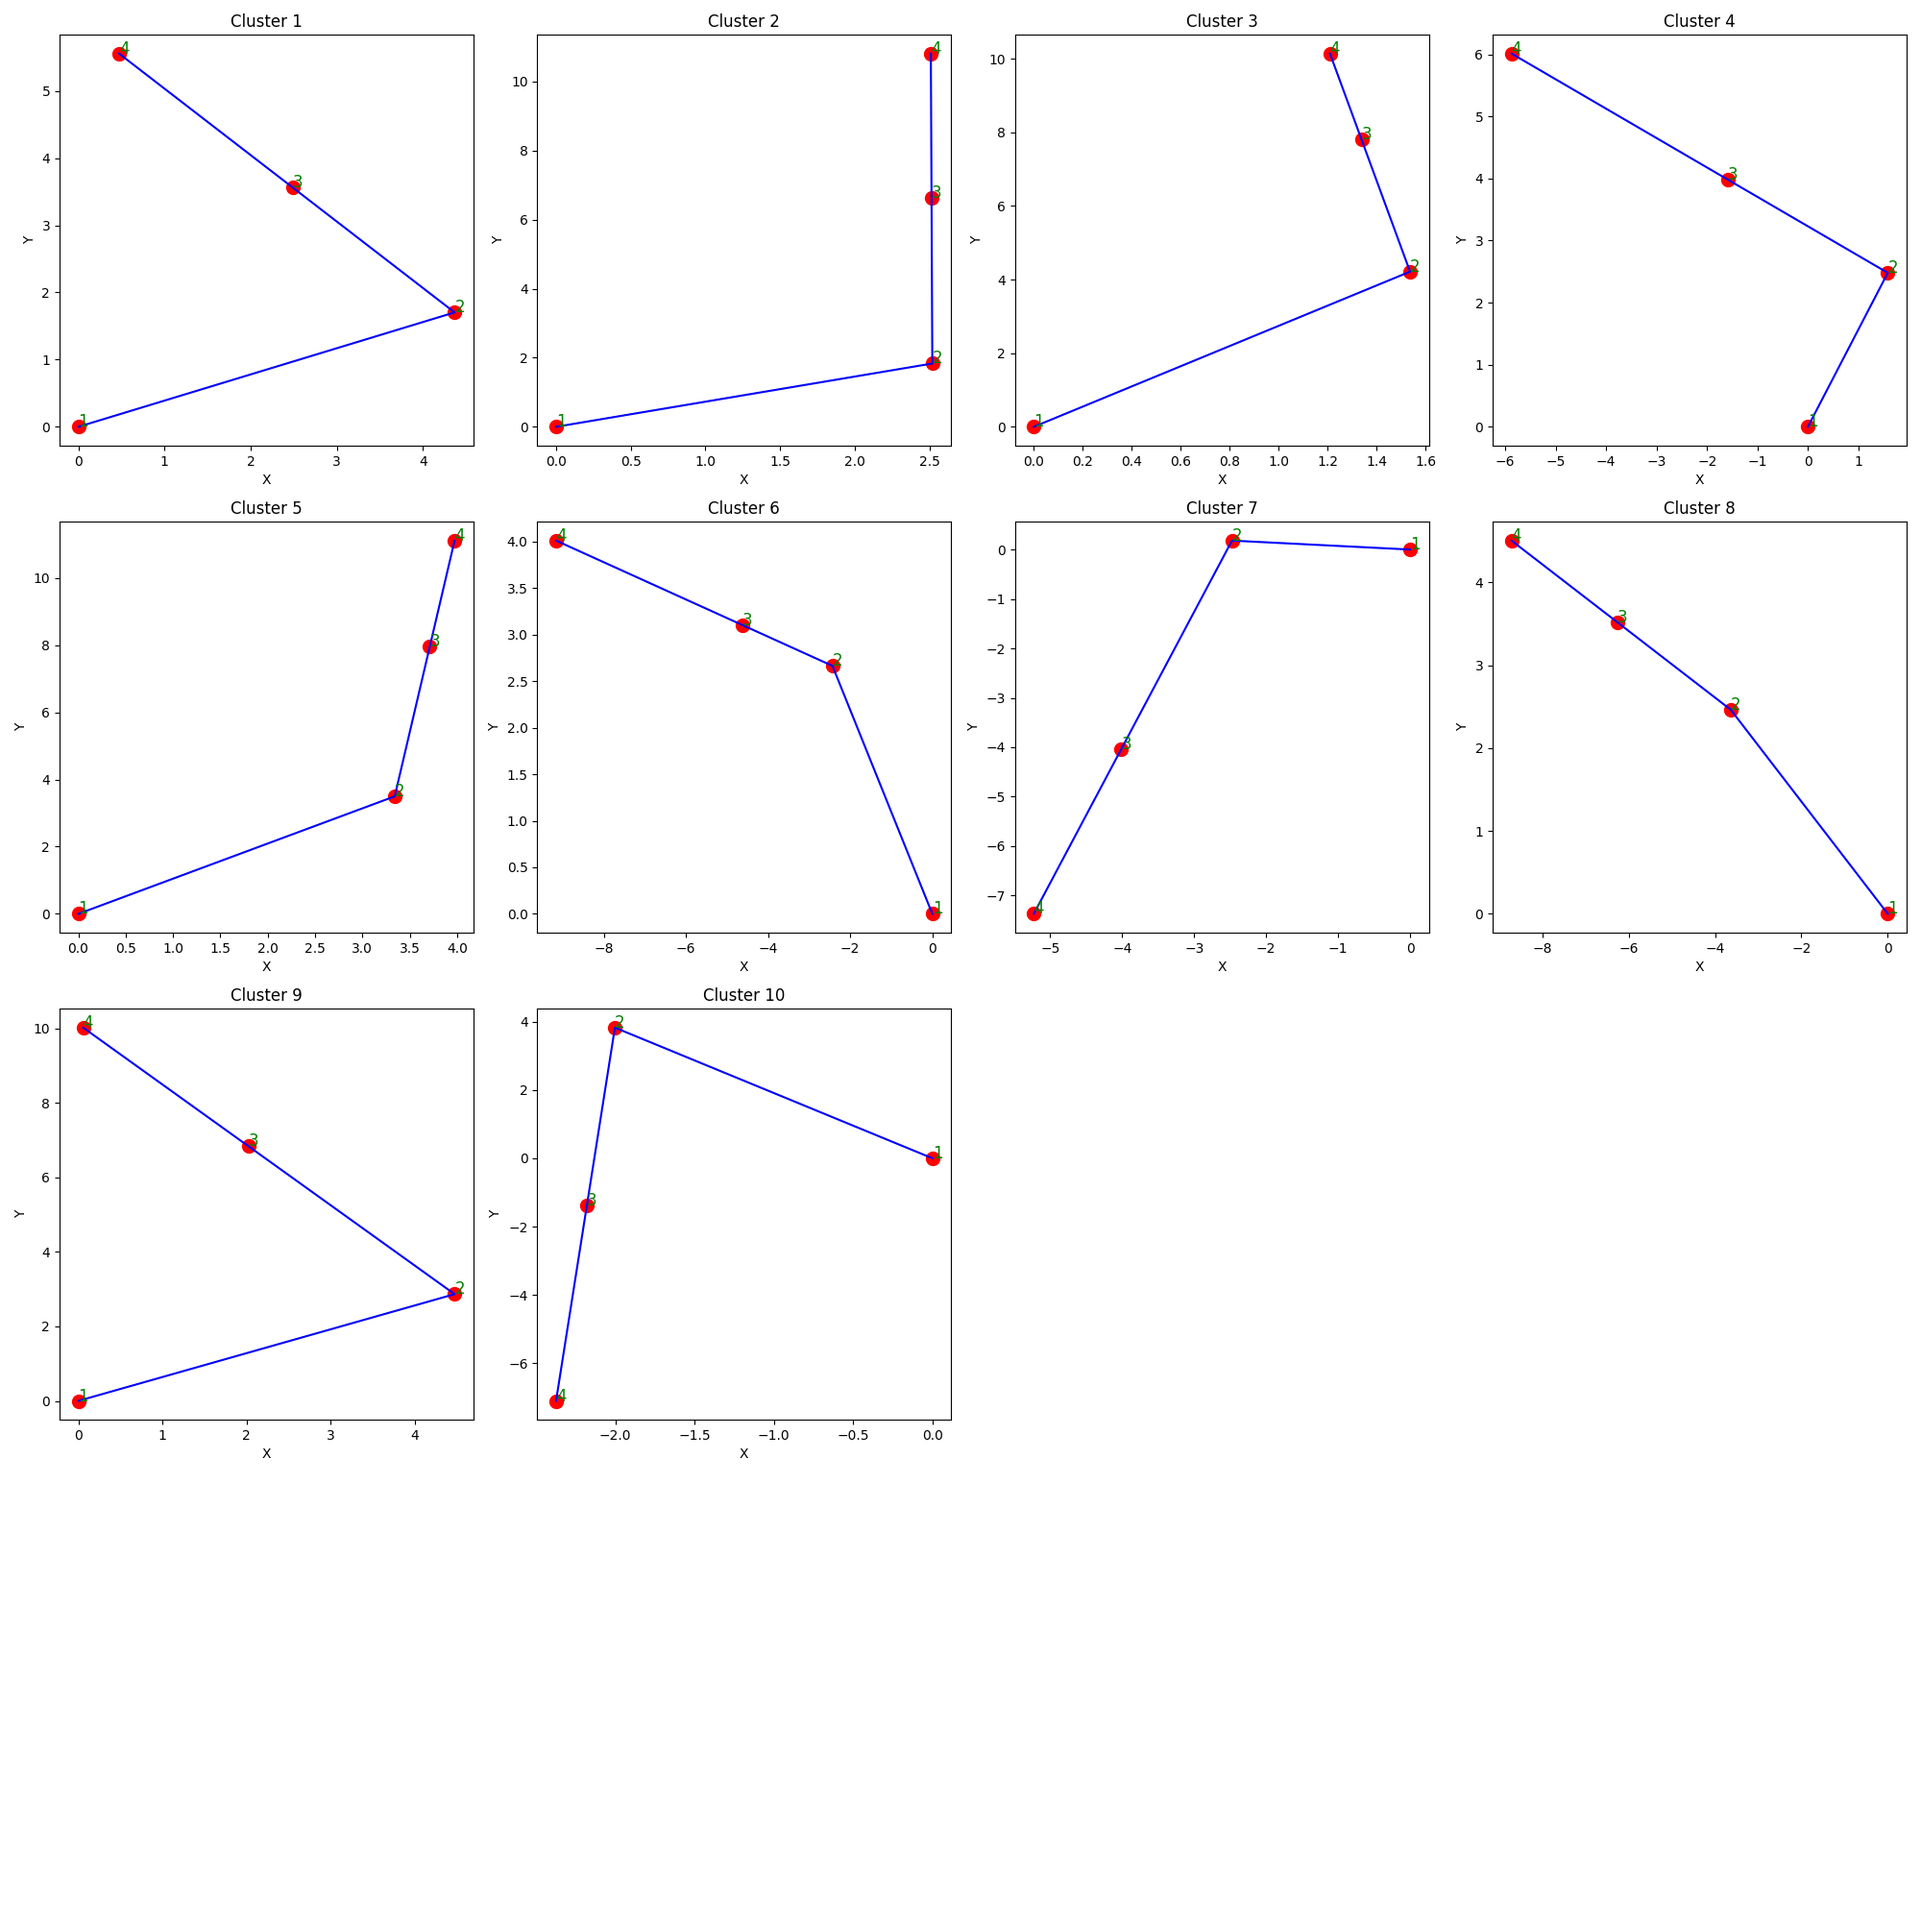
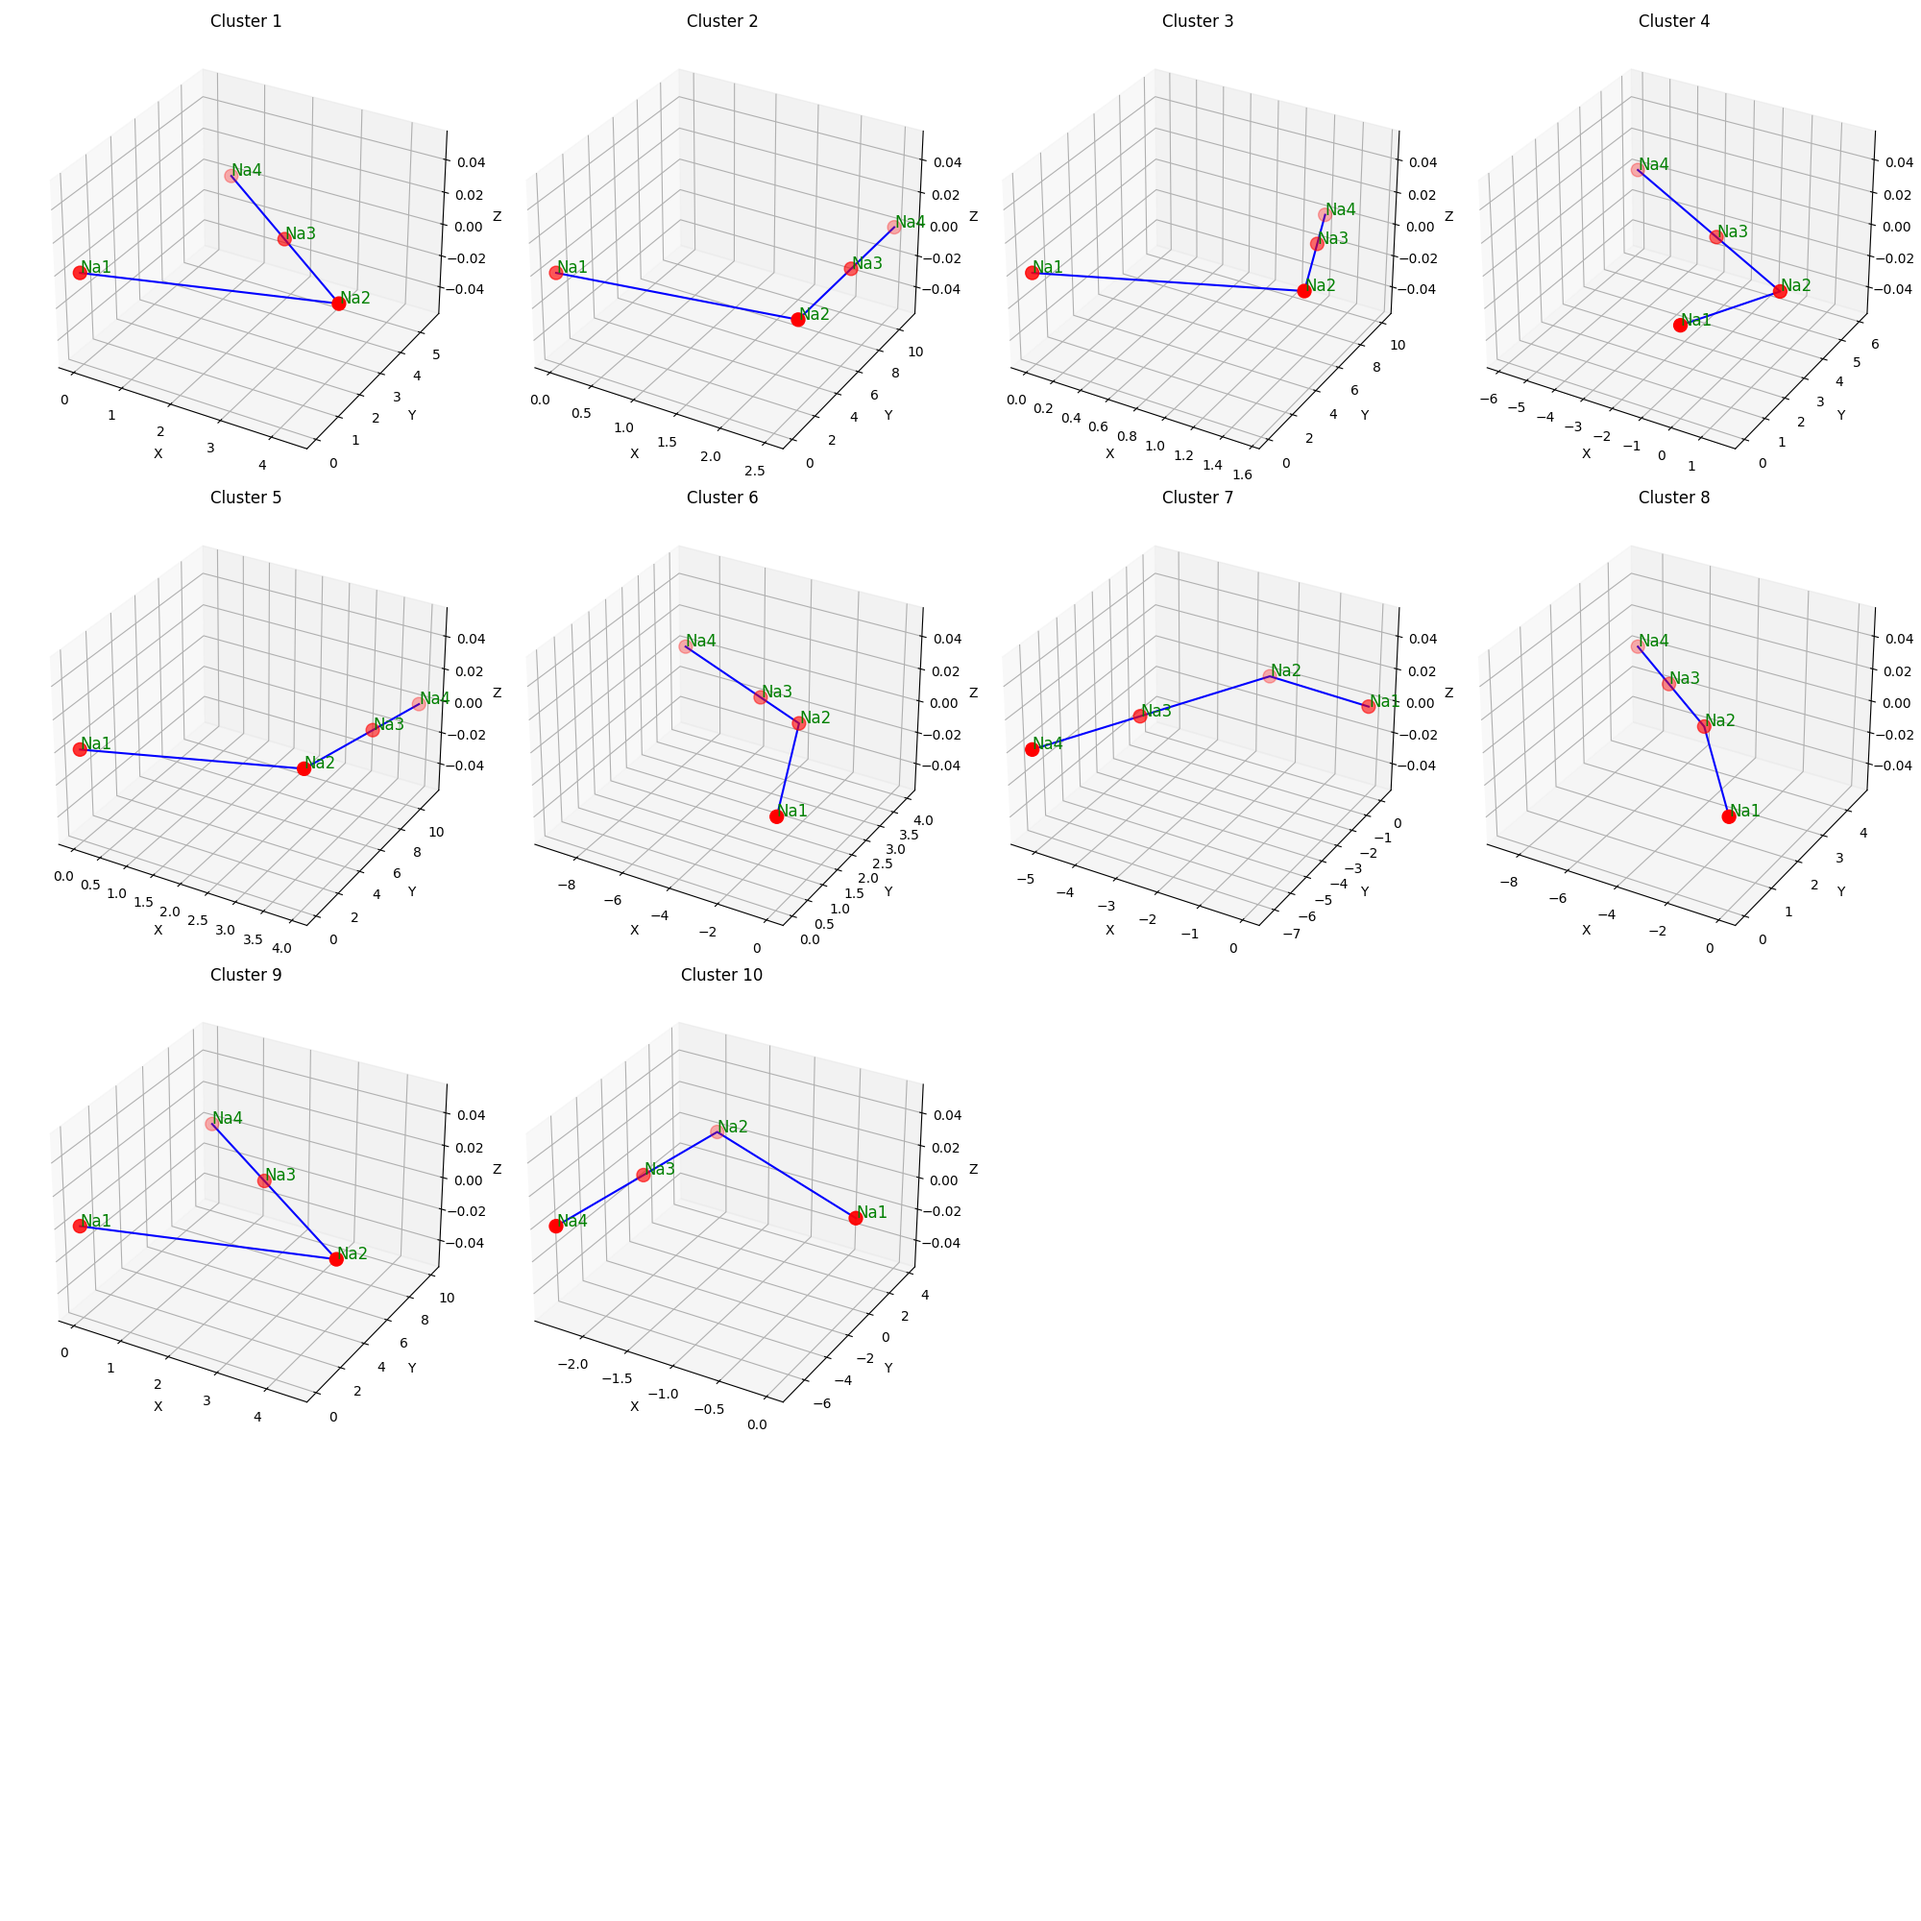
modified some scripts

diff --git a/plot_from_gaussian.py b/plot_from_gaussian.py
@@ -5,38 +5,80 @@ import sys
 import argparse
 import math
 
+# Regular expression pattern for matching atomic coordinates
+PATTERN = r"([A-Za-z]{1,2})\s+([-\d\.]+)\s+([-\d\.]+)\s+([-\d\.]+)"
 
-# Function to parse the Gaussian input file
-def parse_gaussian_file(filename):
+
+def open_file(filename):
     with open(filename, "r") as file:
         lines = file.readlines()
+    return lines
 
-    # Regular expression pattern for matching atomic coordinates
-    pattern = r"Na\s+([-\d\.]+)\s+([-\d\.]+)\s+([-\d\.]+)"
 
-    # Extract the atomic coordinates for each molecule
+def match_coordinates(line):
+    return re.match(PATTERN, line)
+
+
+def parse_line(line):
+    match = match_coordinates(line)
+    if match:
+        atom, x, y, z = match.groups()
+        x, y, z = map(float, [x, y, z])
+        return (atom, x, y, z)
+    return None
+
+
+def is_new_molecule(line):
+    return line.startswith("--Link1--")
+
+
+def parse_gaussian_file(filename):
+    lines = open_file(filename)
+
     molecules = []
     molecule = []
     for line in lines:
-        match = re.match(pattern, line)
-        if match:
-            # Convert the matched strings to floats
-            x, y, z = map(float, match.groups())
-            molecule.append((x, y, z))
-        elif line.startswith("--Link1--"):
-            # Start a new molecule when encountering a "--Link1--" line
+        coord = parse_line(line)
+        if coord:
+            molecule.append(coord)
+        elif is_new_molecule(line):
             molecules.append(molecule)
             molecule = []
-    # Append the last molecule
     if molecule:
         molecules.append(molecule)
 
     return molecules
 
 
-# Function to plot the atomic coordinates for each molecule
+def get_plot_dimensions(num_molecules):
+    return int(math.ceil(math.sqrt(num_molecules)))
+
+
+def plot_2d_molecule(ax, molecule, index):
+    atoms, x, y, z = zip(*molecule)
+    ax.plot(x, y, color="blue")  # Plot line
+    ax.scatter(x, y, color="red", s=100)  # Plot points
+    for j in range(len(x)):  # Add labels
+        ax.text(x[j], y[j], f"{atoms[j]}{j + 1}", color="green", fontsize=12)
+    ax.set_title(f"Cluster {index+1}")
+    ax.set_xlabel("X")
+    ax.set_ylabel("Y")
+
+
+def plot_3d_molecule(ax, molecule, index):
+    atoms, x, y, z = zip(*molecule)
+    ax.plot(x, y, z, color="blue")  # Plot line
+    ax.scatter(x, y, z, color="red", s=100)  # Plot points
+    for j in range(len(x)):  # Add labels
+        ax.text(x[j], y[j], z[j], f"{atoms[j]}{j + 1}", color="green", fontsize=12)
+    ax.set_title(f"Cluster {index+1}")
+    ax.set_xlabel("X")
+    ax.set_ylabel("Y")
+    ax.set_zlabel("Z")
+
+
 def plot_molecules(molecules, plot_type):
-    n = int(math.ceil(math.sqrt(len(molecules))))  # Compute the grid size
+    n = get_plot_dimensions(len(molecules))
     fig, axs = plt.subplots(
         n, n, figsize=(5 * n, 5 * n), subplot_kw={"projection": "3d" if plot_type == "3d" else None}
     )
@@ -44,25 +86,10 @@ def plot_molecules(molecules, plot_type):
     for i, ax in enumerate(axs.flat):
         if i < len(molecules):
             molecule = molecules[i]
-            x, y, z = zip(*molecule)
-
             if plot_type == "2d":
-                ax.plot(x, y, color="blue")  # Plot line
-                ax.scatter(x, y, color="red", s=100)  # Plot points
-                for j in range(len(x)):  # Add labels
-                    ax.text(x[j], y[j], str(j + 1), color="green", fontsize=12)
+                plot_2d_molecule(ax, molecule, i)
             else:
-                ax.plot(x, y, z, color="blue")  # Plot line
-                ax.scatter(x, y, z, color="red", s=100)  # Plot points
-                for j in range(len(x)):  # Add labels
-                    ax.text(x[j], y[j], z[j], str(j + 1), color="green", fontsize=12)
-
-            ax.set_title(f"Cluster {i+1}")
-            ax.set_xlabel("X")
-            ax.set_ylabel("Y")
-
-            if plot_type == "3d":
-                ax.set_zlabel("Z")
+                plot_3d_molecule(ax, molecule, i)
         else:
             ax.axis("off")  # Hide unused subplots
 
@@ -71,12 +98,18 @@ def plot_molecules(molecules, plot_type):
     plt.show()
 
 
-# Parse command line arguments
-parser = argparse.ArgumentParser()
-parser.add_argument("filename")
-parser.add_argument("--plot", default="3d")
-args = parser.parse_args()
+def parse_arguments():
+    parser = argparse.ArgumentParser()
+    parser.add_argument("filename")
+    parser.add_argument("--plot", default="3d")
+    return parser.parse_args()
 
-# Use the functions
-molecules = parse_gaussian_file(args.filename)
-plot_molecules(molecules, args.plot)
+
+def main():
+    args = parse_arguments()
+    molecules = parse_gaussian_file(args.filename)
+    plot_molecules(molecules, args.plot)
+
+
+if __name__ == "__main__":
+    main()

diff --git a/generate_gaussian_file/2d_main.py b/generate_gaussian_file/2d_main.py
@@ -10,8 +10,8 @@ if __name__ == "__main__":
     atom_cluster = FourAtomCluster.from_atom_name(atom_name="Na", count=4, min=min_val, max=max_val)
 
     # リファクタリングによりメソッドチェーンによる記述が可能となった
-    # atom_cluster.place_atoms_in_a_plane().check_and_report_conditions(plot_type="2D")
+    atom_cluster.place_atoms_in_a_plane().check_and_report_conditions(plot_type="2D")
 
-    writer = GaussianWriter(atom_cluster)
+    # writer = GaussianWriter(atom_cluster)
     # ラムダ式を使うとメソッドを実行せずに別のメソッドに渡せる
-    writer.write(file_path, loops, algorithm=lambda cluster: atom_cluster.place_atoms_in_a_plane())
+    # writer.write(file_path, loops, algorithm=lambda cluster: atom_cluster.place_atoms_in_a_plane())

diff --git a/generate_gaussian_file/3d_main.py b/generate_gaussian_file/3d_main.py
@@ -8,9 +8,7 @@ if __name__ == "__main__":
     max_val = 5.8
     # 4つの異なるAtomインスタンスをNaとして作成。最短距離と最長距離を指定。
     atom_cluster = FourAtomCluster.from_atom_name(atom_name="Na", count=4, min=min_val, max=max_val)
-    atom_cluster.place_atoms_in_a_cube()
-    condition = atom_cluster._check_distances_in_cube(criteria=min_val)
-    print(condition)
+    atom_cluster.place_atoms_in_a_cube().check_and_report_conditions(plot_type="none")
     atom_cluster.display_atoms()
     atom_cluster.plot_3d(line=True)
 

diff --git a/generate_gaussian_file/FourAtomCluster.py b/generate_gaussian_file/FourAtomCluster.py
@@ -126,8 +126,9 @@ class FourAtomCluster(AtomClusterInterface):
 
     def check_and_report_conditions(self, plot_type: str) -> str:
         min_distance_check = self._check_minimum_distance()
+        print(min_distance_check)
         if min_distance_check != "distances okay":
-            return min_distance_check
+            return min_distance_check  # FALSE {I}-{J}
 
         vectors = self._calculate_vectors()
         s, t = self._check_intersection(vectors)
